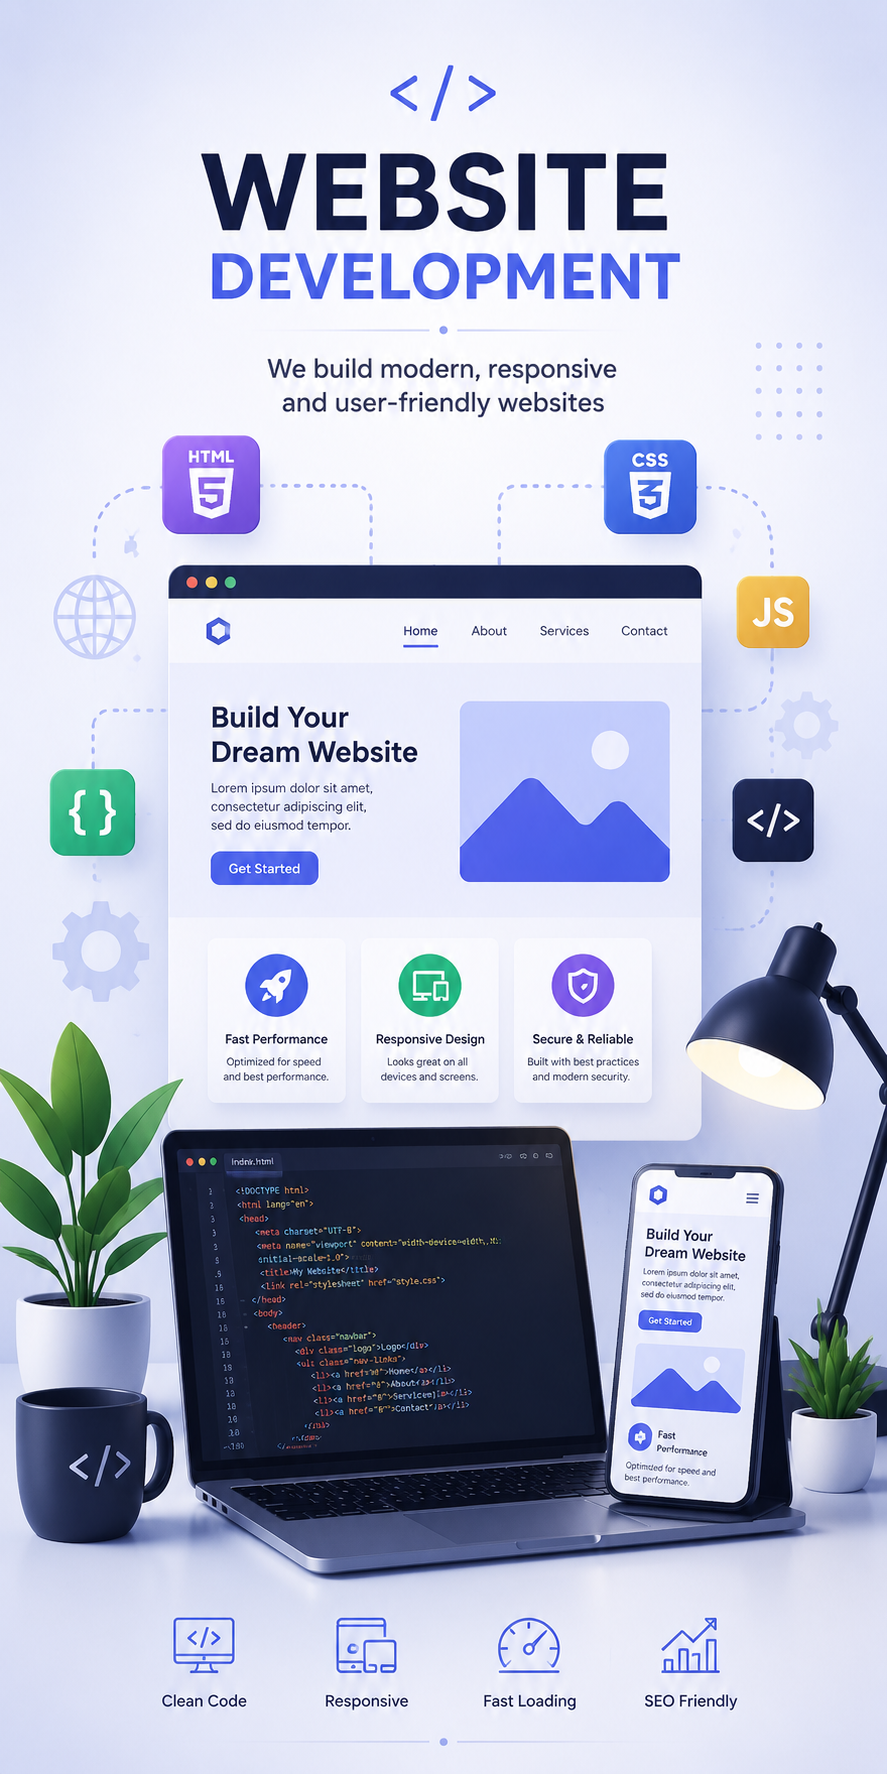
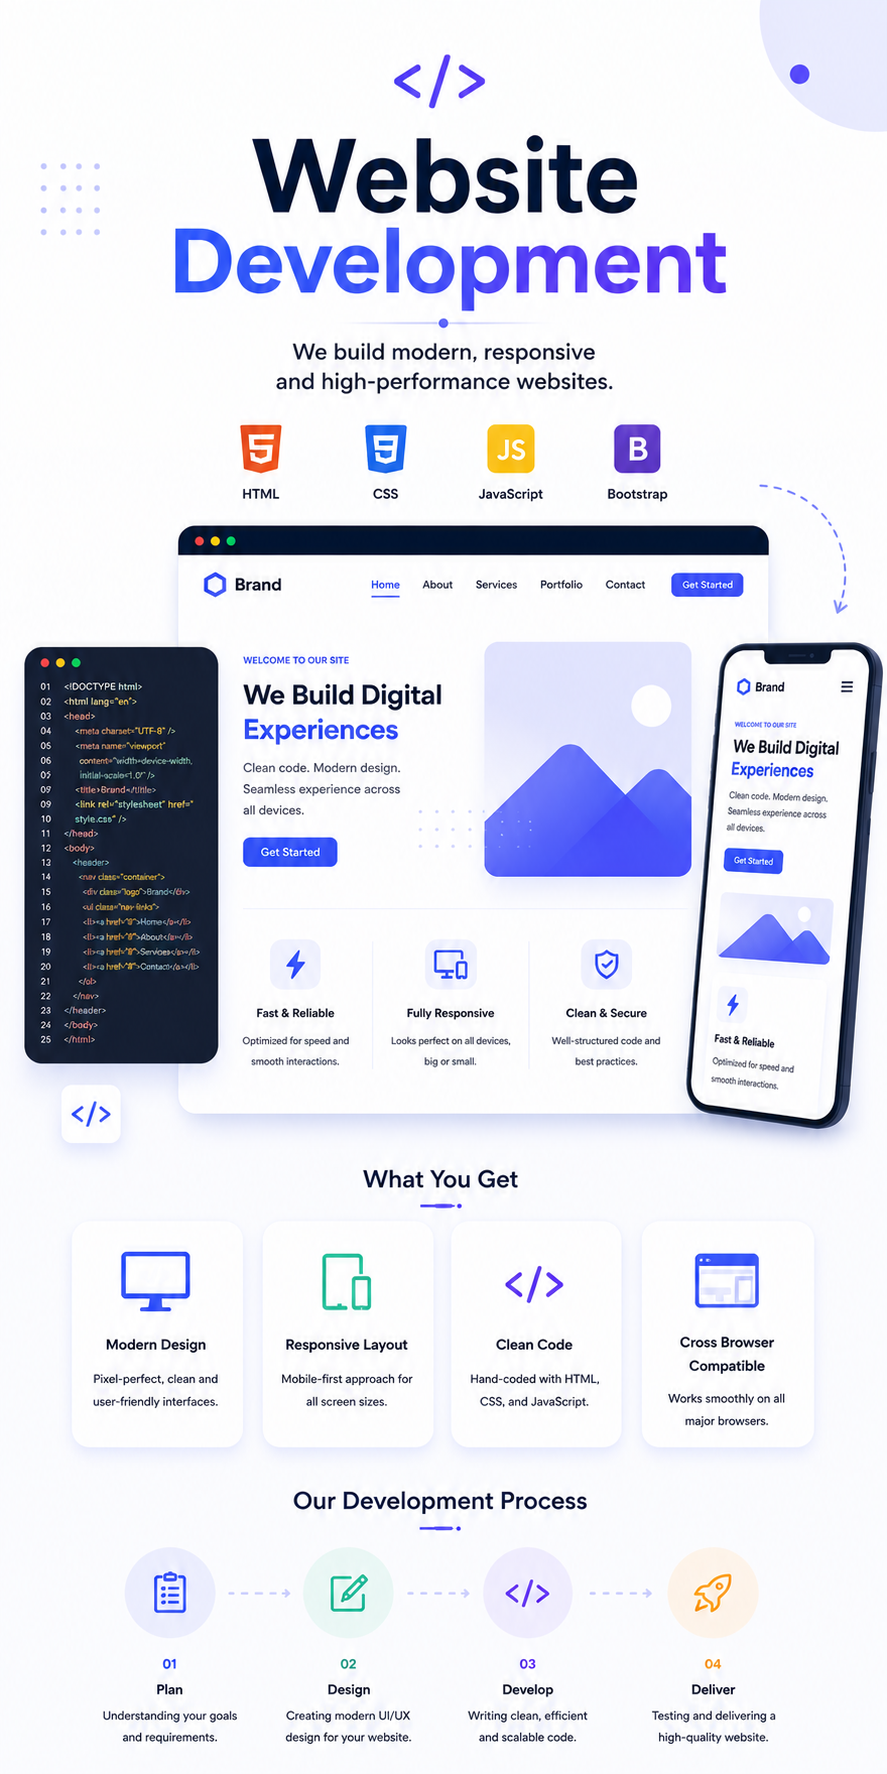
adding the about page

diff --git a/src/About.jsx b/src/About.jsx
@@ -1,12 +1,78 @@
 // About ME
 import bgImage from "./assets/bg.png";
-
+import me from "./assets/me.jpg";
 
 export default function About() {
-    return(
-        <div className="bg-cover h-screen w-screen bg-no-repeat bg-center snap-start flex flex-col justify-center"
-              style={{ backgroundImage: `url(${bgImage})` }}>
-            
+  return (
+    <div
+      className="bg-cover h-screen w-screen bg-no-repeat bg-center snap-start flex flex-col justify-center"
+      style={{ backgroundImage: `url(${bgImage})` }}
+    >
+      <h1 className="text-[3vw] text-white font-bold flex justify-center py-6">
+        About
+      </h1>
+      <div className=" h-[50vh] w-[90vw] mx-auto rounded-3xl flex flex-row justify-center items-center gap-4 p-4">
+        <div className=" p-5 w-[50vw] rounded-3xl  flex flex-col justify-center items-center gap-2">
+          <h2 className="text-[2vw] text-gray-300 font-bold flex justify-center py-5">
+            Hi, I'm Akhilesh
+          </h2>
+          <p className="text-[1.2vw] text-gray-300 text-center">
+            Computer Science student specializing in AI/ML.
+          </p>
+          <p className="text-[1.2vw] text-gray-300 text-center">
+            I build modern web applications and AI-powered automation tools,
+            combining clean design with practical solutions.
+          </p>
+          <p className="text-[1.2vw] text-gray-300 text-center">
+            Currently looking for internships, freelance opportunities, and
+            exciting collaborations.
+          </p>
+          <br/>
+          <h3 className="text-[1.4vw] text-gray-300 font-bold"> Languages</h3>
+          <p className="text-[1.2vw] text-gray-300">
+            English • Hindi • Marathi
+          </p>
+          <br></br>
+          <a href="">
+            <button className="h-[7vh] w-[21vw] bg-[#0e0e0eb0] border-2 border-gray-300 rounded-3xl  flex flex-col justify-center items-center gap-4 hover:bg-[#2b459a50] transition-colors duration-300 ease-in-out">
+              <p className="text-[1.2vw] text-gray-300 font-bold ">Resume ↗</p>
+            </button>
+          </a>
         </div>
-    )
+        <div className="border-2 border-gray-300 rounded-3xl  flex flex-col justify-center items-center gap-4 mt-10">
+          <img src={me} alt="me" className=" w-[20vw] rounded-3xl" />
+        </div>
+      </div>
+      <div className="h-[30vh] bg-[#0e0e0eb0] flex flex-row justify-center items-center gap-4 p-4 mt-10">
+        <div className="flex-1/3 p-10 rounded-3xl  flex flex-col justify-center items-center gap-4">
+          <h1 className="text-[1.4vw] text-white font-bold ">Contact Me at</h1>
+          <h1
+            className="text-[1.8vw] text-white font-bold cursor:pointer "
+            onClick={() =>
+              (window.location.href = "mailto:[email redacted]")
+            }
+          >
+            [email redacted]
+          </h1>
+        </div>
+        <div className="flex-1/3 p-10 rounded-3xl  flex flex-col justify-center items-center gap-4">
+          <p className="text-[1.2vw] text-gray-300">Projects: 10+</p>
+          <p className="text-[1.2vw] text-gray-300">Technologies: 12+</p>
+          <p className="text-[1.2vw] text-gray-300">AI Workflows: 10+</p>
+
+        </div>
+        <div className="flex-1/3 p-10 rounded-3xl  flex flex-col justify-center items-center gap-4">
+          <a href="https://github.com/akhileshsude">
+            <p className="text-[1.2vw] text-gray-300">Github ↗</p>
+          </a>
+          <a href="https://www.linkedin.com/in/akhilesh-sude/">
+            <p className=" text-[1.2vw] text-gray-300">LinkedIn ↗</p>
+          </a>
+          <a href="mailto:[email redacted]">
+            <p className="text-[1.2vw] text-gray-300">Email ↗</p>
+          </a>
+        </div>
+      </div>
+    </div>
+  );
 }

diff --git a/src/Services.jsx b/src/Services.jsx
@@ -2,7 +2,7 @@
 
 import bgImage from "./assets/bg.png";
 import webDev from "./assets/web-dev.png";
-import automation from "./assets/web-redes.png";
+import automation from "./assets/webredes.png";
 import aiAuto from "./assets/ai-auto.png";
 
 export default function Services() {
@@ -19,21 +19,21 @@ export default function Services() {
           <img
             src={webDev}
             alt="Website Development"
-            className="rounded-3xl w-[20vw] h-[40vw]"
+            className="rounded-3xl w-[20vw] h-[40vw] brightness-90"
           />
         </div>
         <div className="w-[20vw] h-[40vw] bg-[#1a1a1a] rounded-3xl flex flex-col justify-center items-center gap-4 transition-transform duration-500 ease-in-out hover:scale-105">
           <img
             src={automation}
             alt="Automation"
-            className="rounded-3xl  w-[20vw] h-[40vw]"
+            className="rounded-3xl  w-[20vw] h-[40vw] brightness-90"
           />
         </div>
         <div className="w-[20vw] h-[40vw] bg-[#1a1a1a] rounded-3xl flex flex-col justify-center items-center gap-4 transition-transform duration-500 ease-in-out hover:scale-105">
           <img
             src={aiAuto}
             alt="AI Solutions"
-            className="rounded-3xl   w-[20vw] h-[40vw]"
+            className="rounded-3xl   w-[20vw] h-[40vw] brightness-87"
           />
         </div>
       </div>

diff --git a/src/ProjectList.jsx b/src/ProjectList.jsx
@@ -1,3 +1,4 @@
+
 const BestWork = [
     {
       title: "Movie Ticketing Platform",
@@ -29,11 +30,11 @@ export default BestWork;
 
 export const Websites = [
     {
-      title: "SpaceScope Dashboard",
+      title: "BookMyShow Clone",
       description:
         "Real-time ISS tracking dashboard featuring live space data and visual analytics.",
       image:
-        "https://images.unsplash.com/photo-1446776811953-b23d57bd21aa?w=1200",
+        "https://drive.google.com/file/d/1gLM_Ow3Pj9ltw7cQ1ntfRfmh_Yhj71Ne/view?usp=drive_link",
       tech: ["React", "API", "Charts"],
     },
   ];

diff --git a/src/Skills.jsx b/src/Skills.jsx
@@ -104,7 +104,7 @@ export default function Skills() {
       {showHomeButton && (
         <button
           onClick={() => window.scrollTo({ top: 0, behavior: "smooth" })}
-          className="fixed bottom-6 right-6 z-50 inline-flex items-center justify-center rounded-full bg-blue-900 p-4 text-white shadow-lg hover:bg-blue-500 hover:scale-115 active:scale-95 focus-visible:outline focus-visible:outline-2 focus-visible:outline-offset-2 focus-visible:outline-blue-700 transition-all duration-200"
+          className="fixed bottom-6 right-6 z-50 inline-flex items-center justify-center rounded-full bg-blue-900 p-4 text-white shadow-lg hover:bg-blue-500 hover:scale-115 active:scale-95 focus-visible:outline focus-visible:outline-offset-2 focus-visible:outline-blue-700 transition-all duration-200"
           aria-label="Go to home"
         >
           <img src={homeIcon} alt="Home" className="h-6 w-6" />